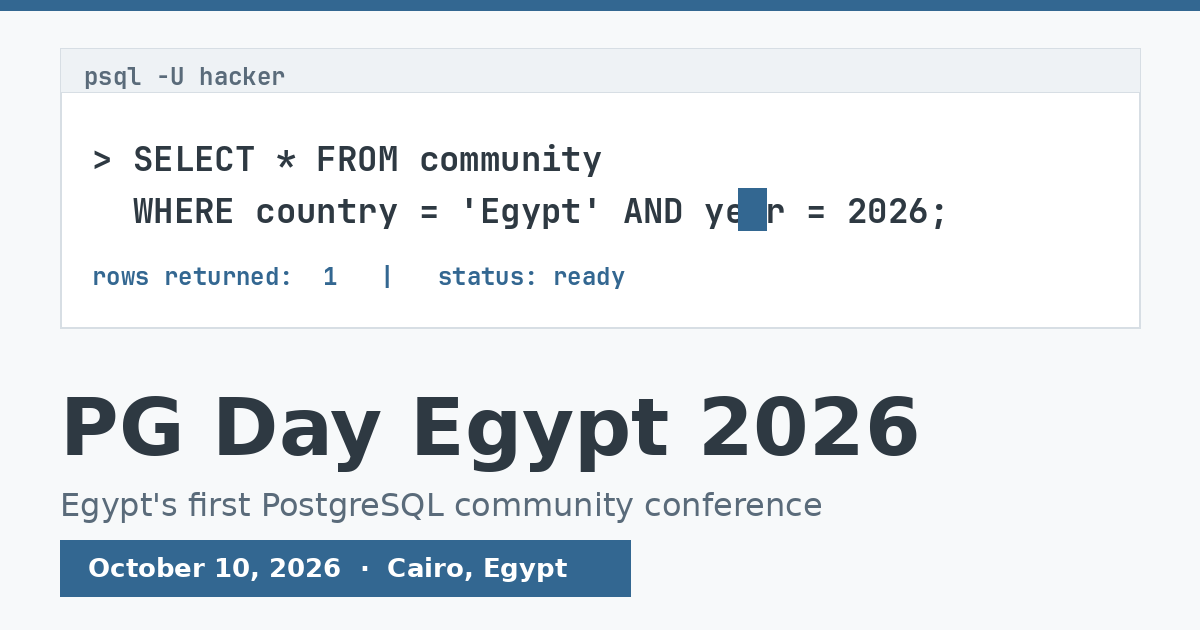
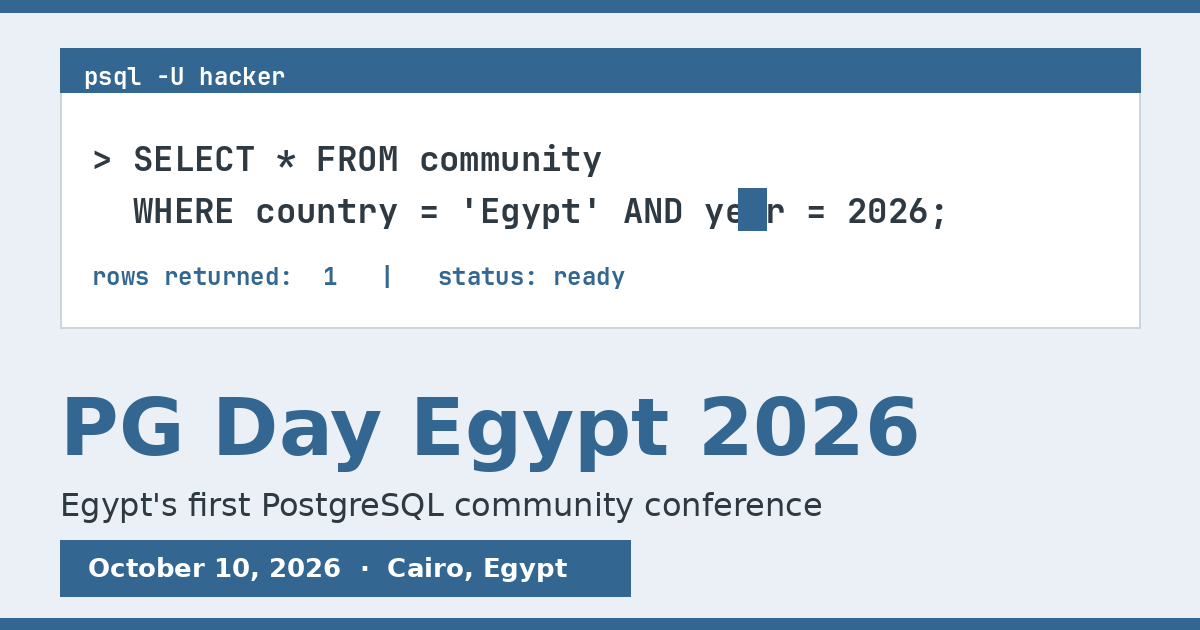
style: amp up Postgres blue domination across the theme
- Page background tinted light blue (#EAF0F5), bluer borders/raised
- All headings now Postgres blue via base styles; session titles blue
- Solid dark-blue footer with white text (classic old-school look)
- 2px blue underline bar on the header
- Terminal title bar in solid blue, quick-facts values in blue
- Email heading and OG image updated to match

diff --git a/components/layout/footer.tsx b/components/layout/footer.tsx
@@ -1,6 +1,5 @@
 import Link from "next/link";
 import { siteConfig } from "@/lib/config";
-import { Logo } from "@/components/ui/logo";
 
 const eventLinks = [
   { href: "/about", label: "About" },
@@ -20,15 +19,15 @@ export function Footer() {
   const { social } = siteConfig;
 
   return (
-    <footer className="border-hairline bg-surface border-t">
+    <footer className="bg-pg-blue-dark border-pg-blue border-t-2">
       <div className="mx-auto grid w-full max-w-6xl gap-10 px-5 py-12 sm:grid-cols-2 sm:px-8 lg:grid-cols-4">
         <div className="sm:col-span-2 lg:col-span-1">
-          <Logo />
-          <p className="text-ink-muted mt-4 max-w-xs text-sm leading-relaxed">
+          <FooterLogo />
+          <p className="mt-4 max-w-xs text-sm leading-relaxed text-white/90">
             {siteConfig.event.tagline}. Organized by volunteers from the {siteConfig.organizer.name}
             .
           </p>
-          <p className="mono-data text-ink-muted mt-4">
+          <p className="mono-data mt-4 text-white/80">
             {siteConfig.event.dateDisplay} · {siteConfig.event.city}
           </p>
         </div>
@@ -37,10 +36,10 @@ export function Footer() {
         <FooterColumn title="Community" links={communityLinks} />
 
         <nav aria-label="Connect">
-          <h2 className="mono-data text-pg-blue mb-4">Connect</h2>
+          <h2 className="mono-data mb-4 text-white">Connect</h2>
           <ul className="space-y-2 text-sm">
             <li>
-              <Link href="/contact" className="text-ink-muted hover:text-pg-blue">
+              <Link href="/contact" className="text-white/90 hover:text-white">
                 Contact
               </Link>
             </li>
@@ -50,7 +49,7 @@ export function Footer() {
                   href={social.twitter}
                   target="_blank"
                   rel="noopener noreferrer"
-                  className="text-ink-muted hover:text-pg-blue"
+                  className="text-white/90 hover:text-white"
                 >
                   X / Twitter
                 </a>
@@ -62,7 +61,7 @@ export function Footer() {
                   href={social.linkedin}
                   target="_blank"
                   rel="noopener noreferrer"
-                  className="text-ink-muted hover:text-pg-blue"
+                  className="text-white/90 hover:text-white"
                 >
                   LinkedIn
                 </a>
@@ -71,7 +70,7 @@ export function Footer() {
             <li>
               <a
                 href={`mailto:${siteConfig.organizer.contactEmail}`}
-                className="text-ink-muted hover:text-pg-blue"
+                className="text-white/90 hover:text-white"
               >
                 {siteConfig.organizer.contactEmail}
               </a>
@@ -80,8 +79,8 @@ export function Footer() {
         </nav>
       </div>
 
-      <div className="border-hairline border-t">
-        <div className="text-ink-muted mx-auto flex w-full max-w-6xl flex-col items-center justify-between gap-2 px-5 py-4 text-xs sm:flex-row sm:px-8">
+      <div className="bg-pg-blue-dark border-pg-blue/40 border-t">
+        <div className="mx-auto flex w-full max-w-6xl flex-col items-center justify-between gap-2 px-5 py-4 text-xs text-white/80 sm:flex-row sm:px-8">
           <p>
             © {new Date().getFullYear()} {siteConfig.organizer.name}. All rights reserved.
           </p>
@@ -94,6 +93,44 @@ export function Footer() {
   );
 }
 
+function FooterLogo() {
+  return (
+    <Link href="/" className="inline-flex items-center gap-2.5">
+      <svg aria-hidden="true" viewBox="0 0 32 32" className="size-7 shrink-0" fill="none">
+        <rect
+          x="1"
+          y="1"
+          width="30"
+          height="30"
+          rx="2"
+          className="fill-pg-blue-dark stroke-pg-blue/60"
+        />
+        <path
+          d="M10.5 12.5c0-1.66 2.46-3 5.5-3s5.5 1.34 5.5 3-2.46 3-5.5 3-5.5-1.34-5.5-3Z"
+          className="stroke-white"
+          strokeWidth="1.8"
+        />
+        <path
+          d="M10.5 12.5v7c0 1.66 2.46 3 5.5 3s5.5-1.34 5.5-3v-7"
+          className="stroke-white"
+          strokeWidth="1.8"
+          strokeLinecap="round"
+        />
+        <path
+          d="M21 14.5v0M21 19.5v0"
+          className="stroke-white"
+          strokeWidth="2.4"
+          strokeLinecap="round"
+        />
+      </svg>
+      <span className="flex flex-col leading-none">
+        <span className="text-[15px] font-bold tracking-tight text-white">PG Day Egypt</span>
+        <span className="mono-data mt-0.5 text-[10px] text-white/80">2026</span>
+      </span>
+    </Link>
+  );
+}
+
 function FooterColumn({
   title,
   links,
@@ -103,11 +140,11 @@ function FooterColumn({
 }) {
   return (
     <nav aria-label={title}>
-      <h2 className="mono-data text-pg-blue mb-4">{title}</h2>
+      <h2 className="mono-data mb-4 text-white">{title}</h2>
       <ul className="space-y-2 text-sm">
         {links.map((link) => (
           <li key={link.href}>
-            <Link href={link.href} className="text-ink-muted hover:text-pg-blue">
+            <Link href={link.href} className="text-white/90 hover:text-white">
               {link.label}
             </Link>
           </li>

diff --git a/app/about/page.tsx b/app/about/page.tsx
@@ -41,9 +41,7 @@ export default function AboutPage() {
               for first-time speakers and first-time conference-goers alike.
             </p>
 
-            <h2 className="font-display text-ink mt-12 text-2xl font-bold">
-              Why PostgreSQL, why now
-            </h2>
+            <h2 className="font-display mt-12 text-2xl font-bold">Why PostgreSQL, why now</h2>
             <p className="text-ink-muted mt-4 text-base leading-relaxed">
               PostgreSQL has become the world&apos;s most loved database — the default choice for
               startups, the migration target for enterprises leaving legacy commercial systems, and
@@ -57,7 +55,7 @@ export default function AboutPage() {
 
           <div>
             <aside className="card p-7">
-              <h2 className="font-display text-ink text-xl font-bold">Who should attend</h2>
+              <h2 className="font-display text-xl font-bold">Who should attend</h2>
               <ul className="mt-5 space-y-3.5">
                 {audience.map((item) => (
                   <li
@@ -105,7 +103,7 @@ export default function AboutPage() {
             <div key={value.title}>
               <article className="card card-hover h-full p-6">
                 <p className="mono-data text-pg-blue">{`0${i + 1}`}</p>
-                <h3 className="font-display text-ink mt-3 text-lg font-semibold">{value.title}</h3>
+                <h3 className="font-display mt-3 text-lg font-semibold">{value.title}</h3>
                 <p className="text-ink-muted mt-2.5 text-sm leading-relaxed">{value.body}</p>
               </article>
             </div>

diff --git a/app/page.tsx b/app/page.tsx
@@ -68,7 +68,7 @@ export default function HomePage() {
         <div className="mx-auto grid w-full max-w-6xl items-center gap-10 px-5 pt-12 pb-14 sm:px-8 sm:pt-16 lg:grid-cols-[1.1fr_1fr] lg:gap-14">
           <div>
             {features.showCountdown && <CountdownBadge dateISO={event.date} className="mb-5" />}
-            <h1 className="text-ink text-4xl leading-tight font-bold tracking-tight sm:text-5xl">
+            <h1 className="text-4xl leading-tight font-bold tracking-tight sm:text-5xl">
               {event.name}
             </h1>
             <p className="text-ink-muted mt-3 max-w-xl text-lg leading-relaxed">
@@ -116,7 +116,7 @@ export default function HomePage() {
               key={fact.k}
               className="border-hairline border-t px-2 py-4 text-center md:border-t-0"
             >
-              <p className="text-ink text-base">{fact.v}</p>
+              <p className="text-pg-blue text-base font-semibold">{fact.v}</p>
               <p className="text-ink-muted mt-0.5 text-[10px] uppercase">{fact.k}</p>
             </div>
           ))}
@@ -199,7 +199,7 @@ export default function HomePage() {
       {/* 7. Final CTA band */}
       <Section>
         <div className="card p-8 text-center sm:p-12">
-          <h2 className="text-ink text-2xl font-bold tracking-tight sm:text-3xl">
+          <h2 className="text-2xl font-bold tracking-tight sm:text-3xl">
             Free to attend. Registration required.
           </h2>
           <p className="text-ink-muted mx-auto mt-3 max-w-xl">

diff --git a/app/speakers/[slug]/page.tsx b/app/speakers/[slug]/page.tsx
@@ -96,7 +96,7 @@ export default async function SpeakerDetailPage({ params }: { params: Promise<{ 
           </div>
 
           <div>
-            <h1 className="font-display text-ink text-4xl font-bold tracking-tight sm:text-5xl">
+            <h1 className="font-display text-4xl font-bold tracking-tight sm:text-5xl">
               {speaker.name}
             </h1>
             <p className="mono-data text-ink-muted mt-3">
@@ -123,9 +123,7 @@ export default async function SpeakerDetailPage({ params }: { params: Promise<{ 
                 <p className="mono-data text-pg-blue">
                   -- session · {session.start}–{session.end}
                 </p>
-                <h2 className="font-display text-ink mt-2 text-xl font-semibold">
-                  {session.title}
-                </h2>
+                <h2 className="font-display mt-2 text-xl font-semibold">{session.title}</h2>
                 {session.abstract && (
                   <p className="text-ink-muted mt-3 text-sm leading-relaxed">{session.abstract}</p>
                 )}

diff --git a/app/globals.css b/app/globals.css
@@ -1,10 +1,10 @@
 @import "tailwindcss";
 
 :root {
-  --bg-page: #f7f9fa;
+  --bg-page: #eaf0f5;
   --bg-surface: #ffffff;
-  --bg-raised: #eef2f5;
-  --border-hairline: #d7dee4;
+  --bg-raised: #dfe8f1;
+  --border-hairline: #c9d6e0;
   --text-primary: #2e3942;
   --text-muted: #5a6b7a;
   --pg-blue: #336791;
@@ -14,10 +14,10 @@
 }
 
 @theme {
-  --color-page: #f7f9fa;
+  --color-page: #eaf0f5;
   --color-surface: #ffffff;
-  --color-surface-raised: #eef2f5;
-  --color-hairline: #d7dee4;
+  --color-surface-raised: #dfe8f1;
+  --color-hairline: #c9d6e0;
   --color-ink: #2e3942;
   --color-ink-muted: #5a6b7a;
   --color-pg-blue: #336791;
@@ -56,6 +56,13 @@
   }
 
   a {
+    color: var(--pg-blue);
+  }
+
+  h1,
+  h2,
+  h3,
+  h4 {
     color: var(--pg-blue);
   }
 

diff --git a/components/ui/page-hero.tsx b/components/ui/page-hero.tsx
@@ -18,9 +18,7 @@ export function PageHero({
     <section className={cn("border-hairline bg-surface relative border-b", className)}>
       <div className="mx-auto w-full max-w-6xl px-5 pt-12 pb-12 sm:px-8 sm:pt-14 sm:pb-14">
         {eyebrow && <p className="mono-data text-pg-blue mb-3">{eyebrow}</p>}
-        <h1 className="text-ink max-w-3xl text-3xl font-bold tracking-tight sm:text-4xl">
-          {title}
-        </h1>
+        <h1 className="max-w-3xl text-3xl font-bold tracking-tight sm:text-4xl">{title}</h1>
         {description && (
           <p className="text-ink-muted mt-3 max-w-2xl text-base leading-relaxed">{description}</p>
         )}

diff --git a/lib/resend.ts b/lib/resend.ts
@@ -3,7 +3,7 @@ import { getCloudflareContext } from "@opennextjs/cloudflare";
 import { siteConfig } from "@/lib/config";
 
 const theme = {
-  bg: "#F7F9FA",
+  bg: "#EAF0F5",
   surface: "#FFFFFF",
   surfaceRaised: "#EEF2F5",
   hairline: "#D7DEE4",
@@ -160,7 +160,7 @@ export function buildHtmlEmail(input: { name: string; siteUrl: string }): string
                   font-size:24px;
                   line-height:1.3;
                   font-weight:700;
-                  color:${theme.ink};
+                  color:${theme.blue};
                 ">Thanks for registering, ${firstName}!</h1>
 
                 <p style="

diff --git a/components/register/register-form.tsx b/components/register/register-form.tsx
@@ -123,7 +123,7 @@ export function RegisterForm() {
     return (
       <div role="status" className="card mx-auto max-w-xl p-8 text-center sm:p-10">
         <CheckCircle2 aria-hidden="true" className="text-pg-blue mx-auto size-12" />
-        <h2 className="font-display text-ink mt-5 text-2xl font-bold">You&apos;re registered!</h2>
+        <h2 className="font-display mt-5 text-2xl font-bold">You&apos;re registered!</h2>
         <p className="text-ink-muted mt-3 leading-relaxed">
           Check your email for a confirmation from us. We&apos;ll follow up closer to the event with
           final attendance details.

diff --git a/app/error.tsx b/app/error.tsx
@@ -18,7 +18,7 @@ export default function Error({
     <div className="relative flex min-h-[60vh] items-center justify-center px-5 py-20">
       <div className="max-w-xl text-center">
         <p className="mono-data text-pg-amber">ERROR: 500</p>
-        <h1 className="font-display text-ink mt-3 text-3xl font-bold">Something went wrong</h1>
+        <h1 className="font-display mt-3 text-3xl font-bold">Something went wrong</h1>
         <p className="text-ink-muted mt-3 leading-relaxed">
           The query blew up unexpectedly. Try running it again — if the problem persists, contact
           the organizing team.

diff --git a/app/venue/page.tsx b/app/venue/page.tsx
@@ -28,7 +28,7 @@ export default function VenuePage() {
 
       <Section>
         <div className="card p-8 sm:p-10">
-          <h2 className="font-display text-ink text-2xl font-bold">Venue: To be announced</h2>
+          <h2 className="font-display text-2xl font-bold">Venue: To be announced</h2>
           <p className="text-ink-muted mt-3 max-w-2xl leading-relaxed">
             We&apos;re working to confirm a venue in Cairo that fits the size and spirit of a
             first-edition community conference. Register now to be notified the moment details go

diff --git a/components/ui/terminal-window.tsx b/components/ui/terminal-window.tsx
@@ -15,8 +15,8 @@ export function TerminalWindow({
 }) {
   return (
     <div className={cn("border-hairline bg-surface border", className)}>
-      <div className="border-hairline bg-surface-raised flex items-center gap-2 border-b px-3 py-1.5">
-        <span aria-hidden="true" className="mono-data text-ink-muted">
+      <div className="bg-pg-blue border-pg-blue flex items-center gap-2 border-b px-3 py-1.5">
+        <span aria-hidden="true" className="mono-data text-white">
           {title}
         </span>
       </div>

diff --git a/app/organizers/page.tsx b/app/organizers/page.tsx
@@ -34,9 +34,7 @@ export default function OrganizersPage() {
                       .join("")}
                   </div>
                   <div>
-                    <h2 className="font-display text-ink text-lg font-semibold">
-                      {organizer.name}
-                    </h2>
+                    <h2 className="font-display text-lg font-semibold">{organizer.name}</h2>
                     <p className="mono-data text-ink-muted">{organizer.role}</p>
                   </div>
                 </div>
